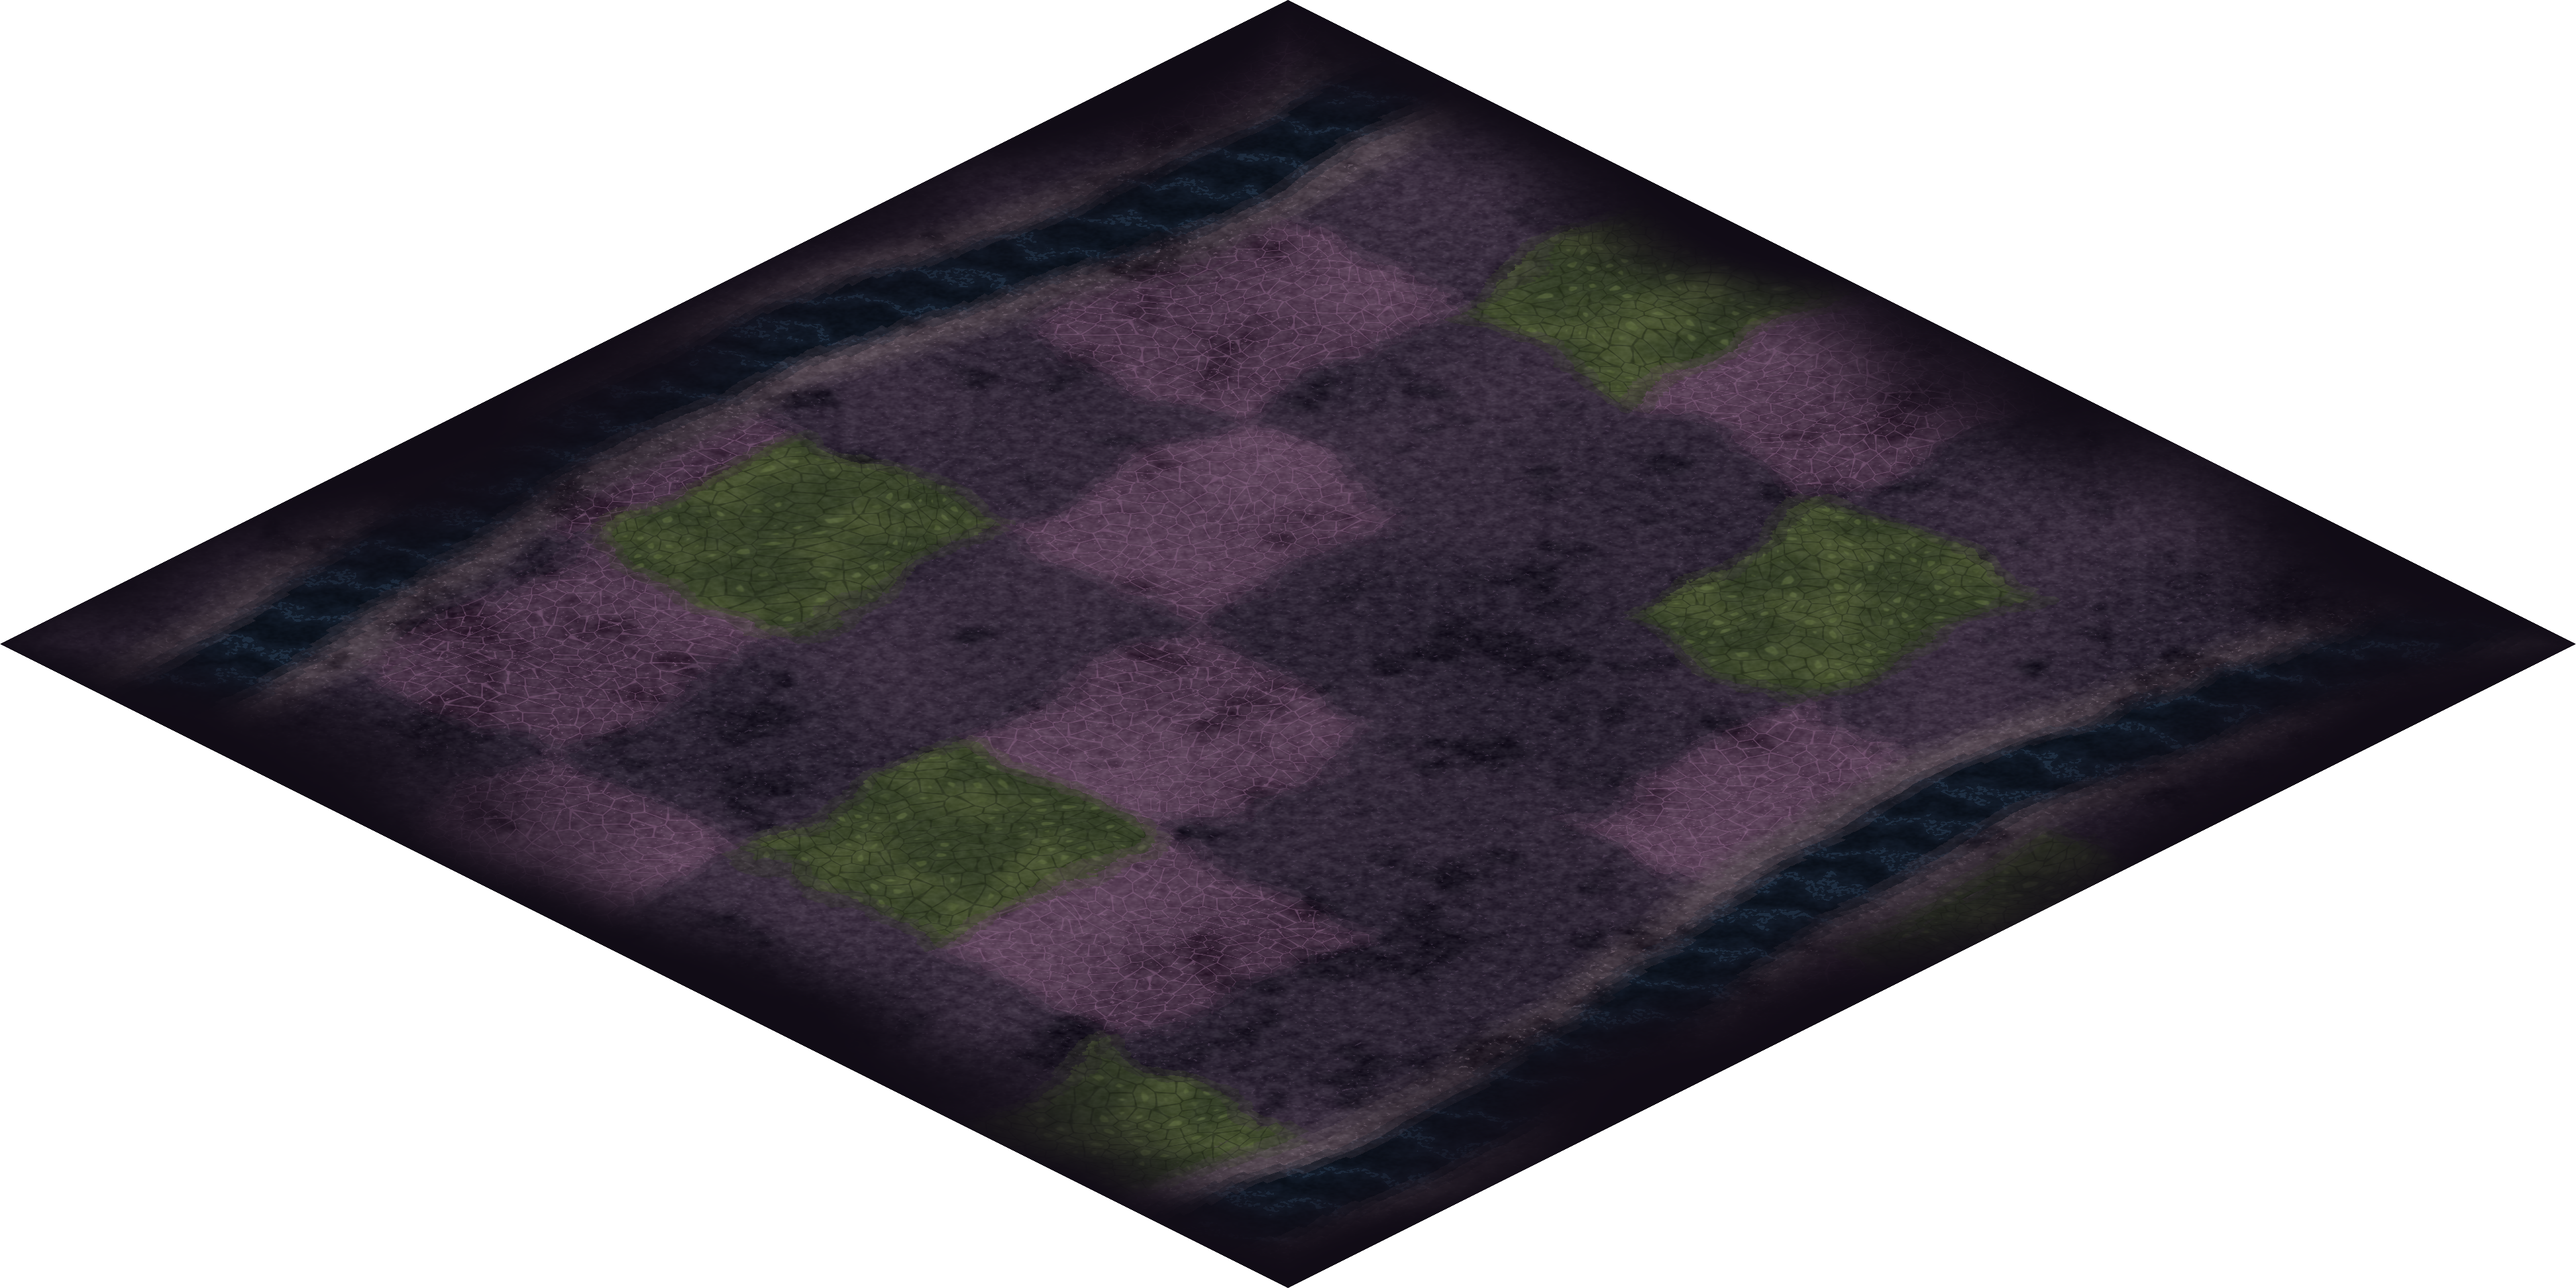
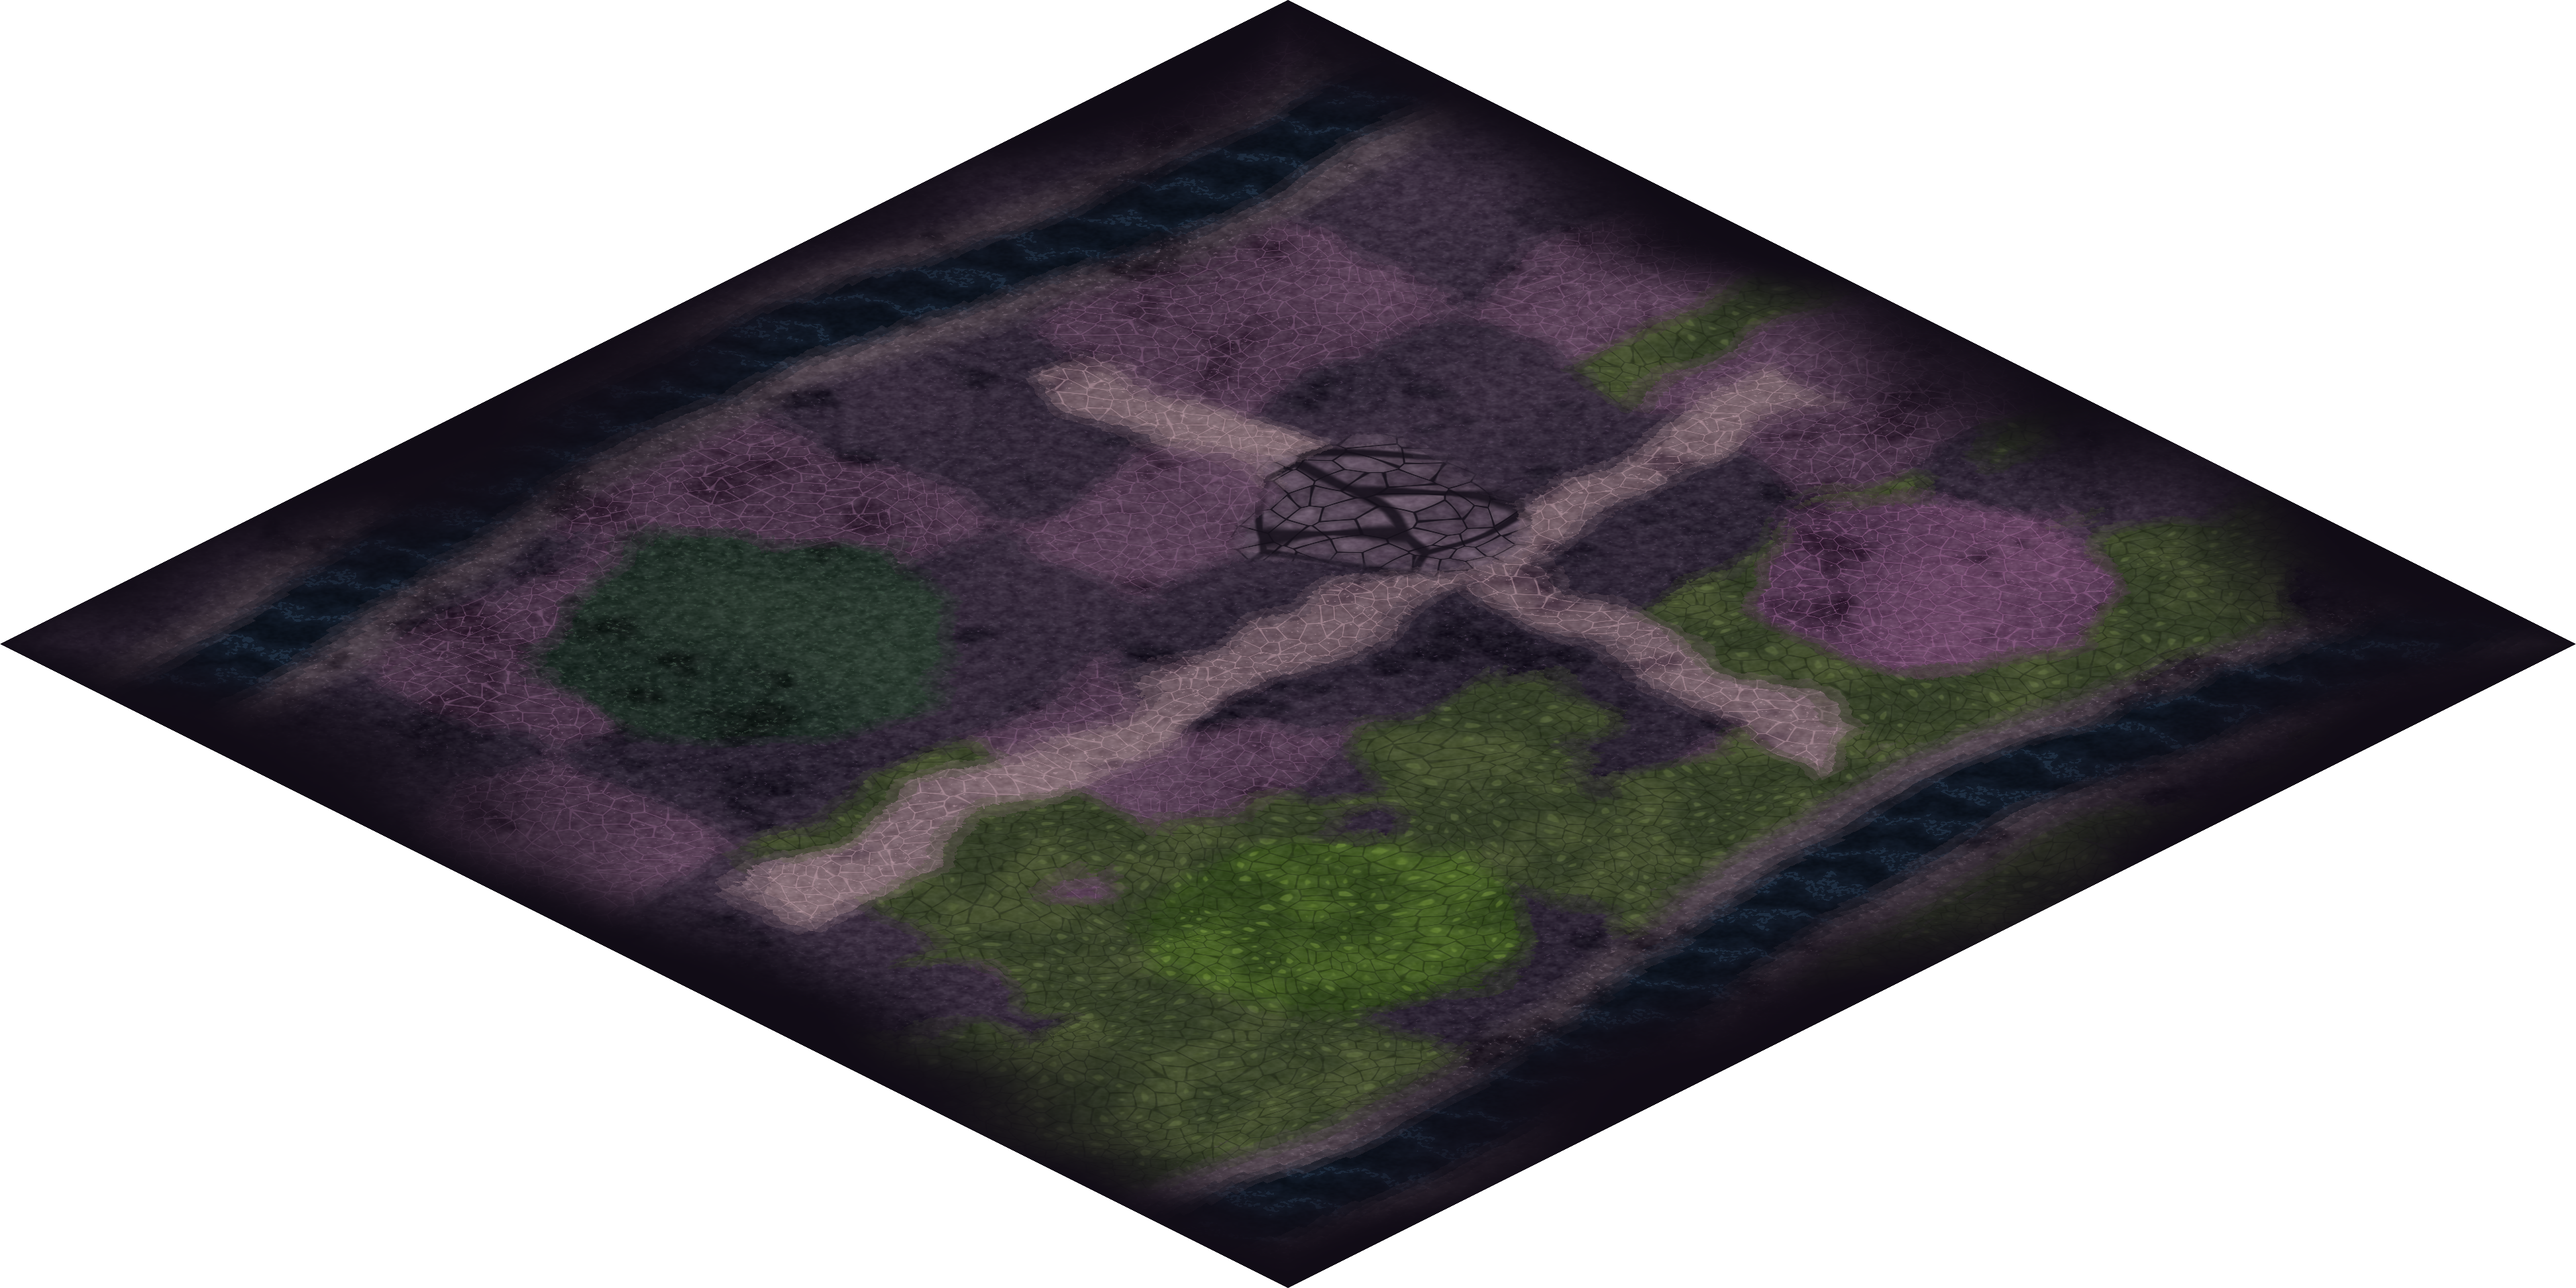
Add level design for Shedaklah: ground zones, paths and clustered props (PLAN-054 F1)
data/level_design.json holds per-biome ground zones (clearing, fungus x ooze dominance, regions, paths, plaza)
and zoned props; SceneryLayout falls back to it when scenery.json has no props for the stage.

Changed region(s): [[0.2812, 0.2812, 0.9062, 0.875], [0.1875, 0.3438, 0.375, 0.5625], [0.5625, 0.1875, 0.6562, 0.2812]]

diff --git a/.atena/specs/SPEC-116-chao-de-dagruve-assado-procedural.md b/.atena/specs/SPEC-116-chao-de-dagruve-assado-procedural.md
@@ -32,6 +32,9 @@ Técnica igual à de Dagruve: `godot --headless --path . -s tools/bake_ground.gd
 Shedaklah, Molor, Durão, Feng-tu, Shendilavri, Goranthis e Pilares reaproveitam o layout existente (`TerrainLayout.material_at`): a ferramenta consulta uma tabela de materiais (5 células por tile) e pinta cada material com um estilo procedural (terra, cinza, laje, laje rachada, laje com veios, água, queda d'água, lodo com bolhas, rocha, margem, musgo, teia de micélio). A consulta é deslocada por ruído para bordas orgânicas; perto de água e margem o deslocamento cai a 0,3 tile para a jogabilidade (Estige, corrente) continuar coincidindo com o que se vê. Materiais vizinhos se misturam levemente nas bordas e cada bioma tem sua cor de névoa na borda.
 Paletas por material estão em `_setup_layout` (`tools/bake_ground.gd`). Regerar: `godot --headless --path . -s tools/bake_ground.gd -- <bioma> assets/tiles/<bioma>_ground_baked_v1.png` e depois `--import`. Capturas `*_v2_*.png` em `.atena/generated/ground-review/`.
 
+## Level design (F1) — Shedaklah
+Ver PLAN-054, seção Progresso. Zonas de chão em `data/level_design.json` → `chao`; props por zonas no mesmo arquivo → `props` (substituem os 40 props soltos da cena em tempo de execução, sem tocar na RNG da batalha). Mudança de comportamento: os props de Shedaklah agora ficam em aglomerados (avenida, praça da estrutura, bosque, poço de lodo, esporos, margens) e nenhum nasce em água ou margem.
+
 ## Evidência
 Capturas em `.atena/generated/ground-review/` (Dagruve: `dagruve_before.png`, `dagruve_v3.png`; Docas: `docas_before.png`, `docas_v2_*.png`, geradas por `tools/capture_ground_spots.tscn`). Suíte: 0 falhas.
 

diff --git a/.atena/vault/drafts/PLAN-054-direcao-de-chao-e-level-design-coeso-2026-10-02.md b/.atena/vault/drafts/PLAN-054-direcao-de-chao-e-level-design-coeso-2026-10-02.md
@@ -73,3 +73,5 @@ ART (atlas de chão por bioma), MEC-035 (estende o layout por dados), ART-012 (p
 
 ## Progresso
 - Dagruve e Docas: aprovados. Sete biomas restantes: chão assado implementado (SPEC-116), aguardando aprovação visual. Próximo: F1 (zonas, eixo de caminho, landmarks, materiais em dados) e F4 (bot e questionário).
+- F1 em Shedaklah (molde): `data/level_design.json` (novo) guarda por bioma o `chao` (clareira de início, dominância fungo a oeste × limo a leste, regiões: bosque, poço de lodo, esporos; trilhas norte-sul e leste-oeste; praça da estrutura) e os `props` por zonas (54 props, mesmo formato de `scenery.json`). `SceneryLayout.stage_spec` usa `scenery.json` e, na falta de props, `level_design.json`. `tools/bake_ground.gd` aplica o `chao` sobre o layout só onde não é água nem margem. Teste: `tests/test_level_design.gd` (props fora de água e margem, determinismo, tipos com dimensões, sem sobreposição). Captura geral: `tools/capture_ground_spots.tscn` gera `<bioma>_<tag>_overview.png`.
+- Próximos biomas pela mesma receita: Molor, Durão, Feng-tu, Shendilavri, Goranthis, Pilares (um por vez, com aprovação).
